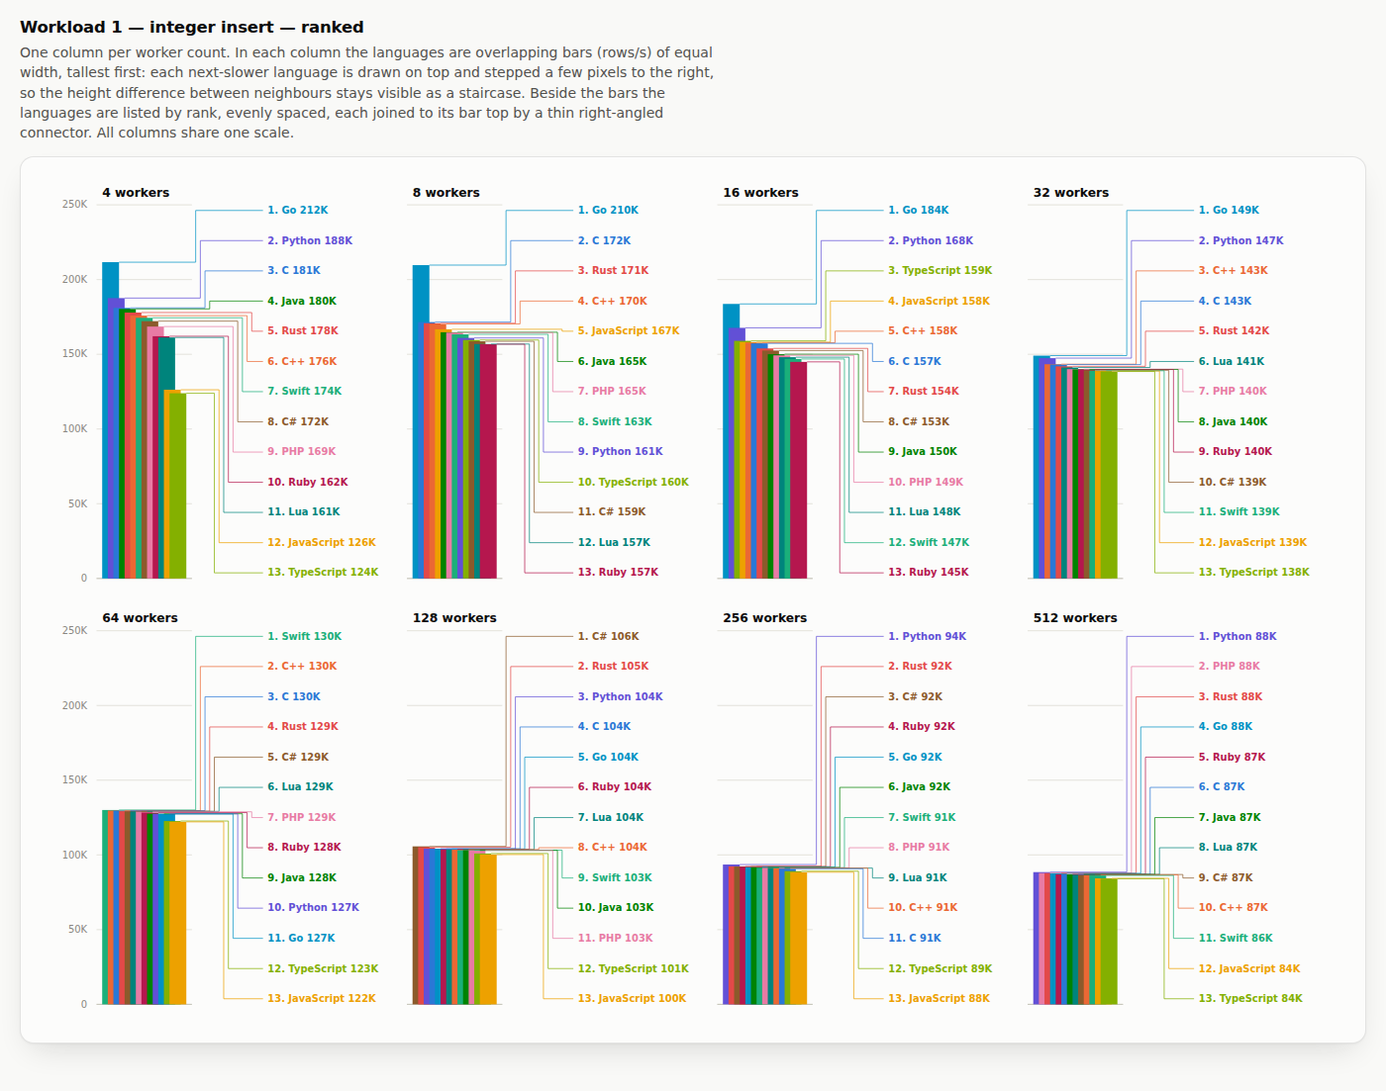
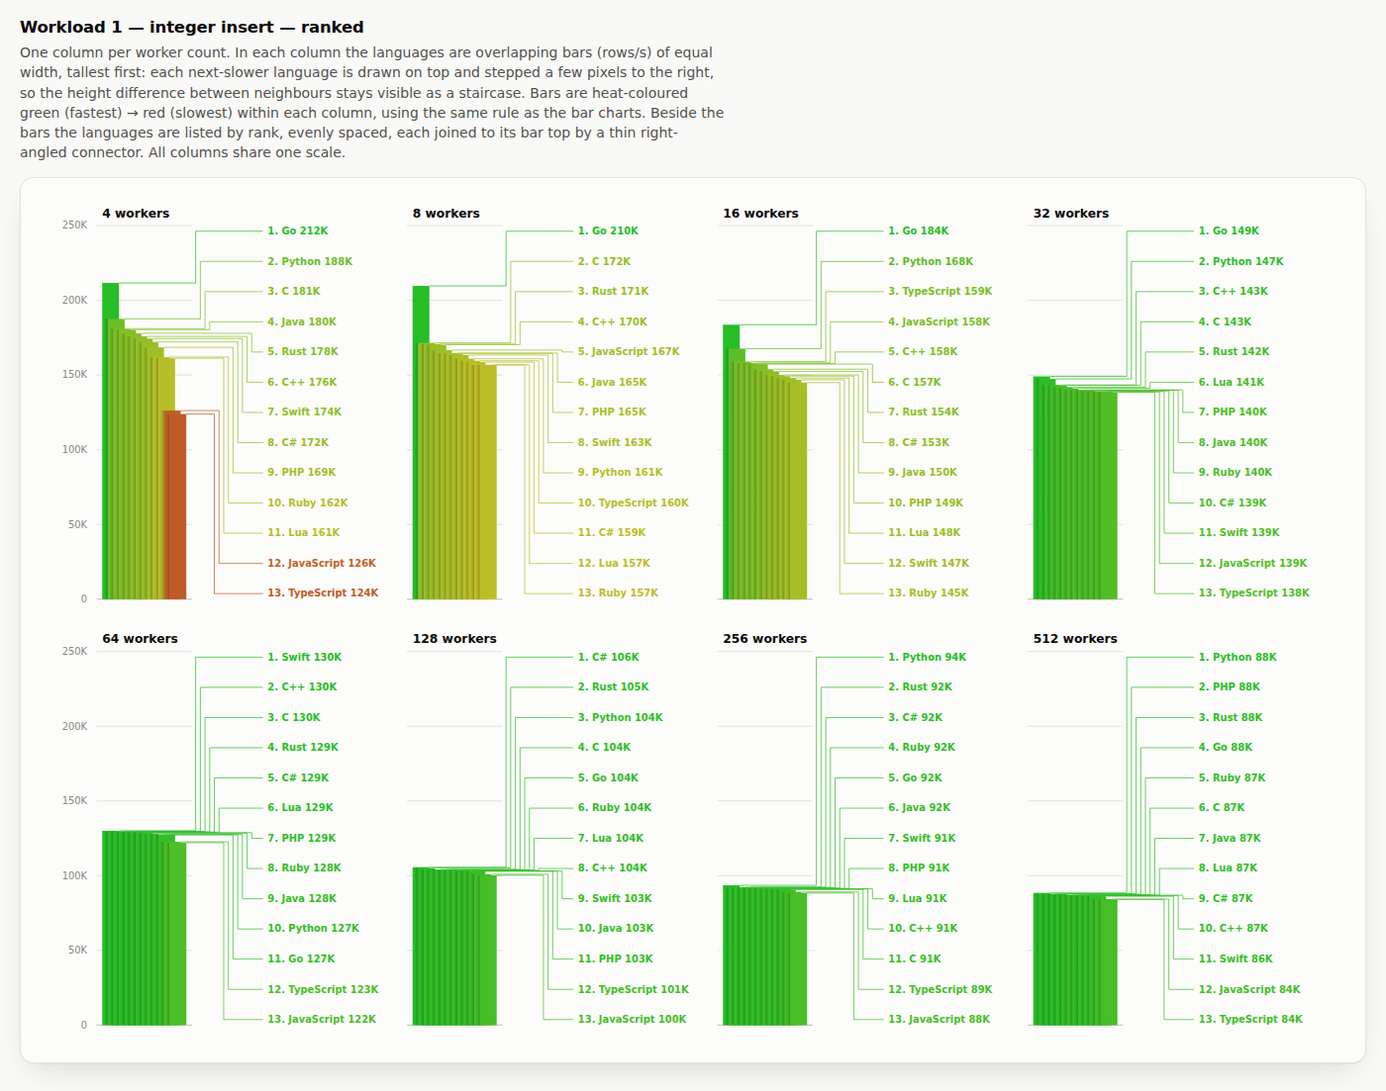
report: heat-map colours and step shadows on the ranked charts
Ranked-chart bars, connectors and labels are now coloured by performance within
each column — green (fastest) to red (slowest), using the same spread rule as
bars.html — instead of per-language colours. Each shorter bar casts a faint
4px gradient shadow leftward onto the taller bar beneath it, so the steps read
with a little depth. Subtitle updated.

diff --git a/report/ranked.html b/report/ranked.html
@@ -114,22 +114,22 @@
 
   <section id="sec-w1-rank">
     <h2>Workload 1 — integer insert — ranked</h2>
-    <p class="sub">One column per worker count. In each column the languages are overlapping bars (rows/s) of equal width, tallest first: each next-slower language is drawn on top and stepped a few pixels to the right, so the height difference between neighbours stays visible as a staircase. Beside the bars the languages are listed by rank, evenly spaced, each joined to its bar top by a thin right-angled connector. All columns share one scale.</p>
+    <p class="sub">One column per worker count. In each column the languages are overlapping bars (rows/s) of equal width, tallest first: each next-slower language is drawn on top and stepped a few pixels to the right, so the height difference between neighbours stays visible as a staircase. Bars are heat-coloured green&nbsp;(fastest)&nbsp;&rarr;&nbsp;red&nbsp;(slowest) within each column, using the same rule as the bar charts. Beside the bars the languages are listed by rank, evenly spaced, each joined to its bar top by a thin right-angled connector. All columns share one scale.</p>
     <div class="bigchart" id="chart-w1-rank"></div>
   </section>
   <section id="sec-w2-rank">
     <h2>Workload 2 — integer fetch + sum — ranked</h2>
-    <p class="sub">One column per worker count. In each column the languages are overlapping bars (rows/s) of equal width, tallest first: each next-slower language is drawn on top and stepped a few pixels to the right, so the height difference between neighbours stays visible as a staircase. Beside the bars the languages are listed by rank, evenly spaced, each joined to its bar top by a thin right-angled connector. All columns share one scale.</p>
+    <p class="sub">One column per worker count. In each column the languages are overlapping bars (rows/s) of equal width, tallest first: each next-slower language is drawn on top and stepped a few pixels to the right, so the height difference between neighbours stays visible as a staircase. Bars are heat-coloured green&nbsp;(fastest)&nbsp;&rarr;&nbsp;red&nbsp;(slowest) within each column, using the same rule as the bar charts. Beside the bars the languages are listed by rank, evenly spaced, each joined to its bar top by a thin right-angled connector. All columns share one scale.</p>
     <div class="bigchart" id="chart-w2-rank"></div>
   </section>
   <section id="sec-w3-rank">
     <h2>Workload 3 — blob insert + MD5 — ranked</h2>
-    <p class="sub">One column per worker count. In each column the languages are overlapping bars (blobs/s) of equal width, tallest first: each next-slower language is drawn on top and stepped a few pixels to the right, so the height difference between neighbours stays visible as a staircase. Beside the bars the languages are listed by rank, evenly spaced, each joined to its bar top by a thin right-angled connector. All columns share one scale.</p>
+    <p class="sub">One column per worker count. In each column the languages are overlapping bars (blobs/s) of equal width, tallest first: each next-slower language is drawn on top and stepped a few pixels to the right, so the height difference between neighbours stays visible as a staircase. Bars are heat-coloured green&nbsp;(fastest)&nbsp;&rarr;&nbsp;red&nbsp;(slowest) within each column, using the same rule as the bar charts. Beside the bars the languages are listed by rank, evenly spaced, each joined to its bar top by a thin right-angled connector. All columns share one scale.</p>
     <div class="bigchart" id="chart-w3-rank"></div>
   </section>
   <section id="sec-w4-rank">
     <h2>Workload 4 — blob read + MD5 — ranked</h2>
-    <p class="sub">One column per worker count. In each column the languages are overlapping bars (blobs/s) of equal width, tallest first: each next-slower language is drawn on top and stepped a few pixels to the right, so the height difference between neighbours stays visible as a staircase. Beside the bars the languages are listed by rank, evenly spaced, each joined to its bar top by a thin right-angled connector. All columns share one scale.</p>
+    <p class="sub">One column per worker count. In each column the languages are overlapping bars (blobs/s) of equal width, tallest first: each next-slower language is drawn on top and stepped a few pixels to the right, so the height difference between neighbours stays visible as a staircase. Bars are heat-coloured green&nbsp;(fastest)&nbsp;&rarr;&nbsp;red&nbsp;(slowest) within each column, using the same rule as the bar charts. Beside the bars the languages are listed by rank, evenly spaced, each joined to its bar top by a thin right-angled connector. All columns share one scale.</p>
     <div class="bigchart" id="chart-w4-rank"></div>
   </section>
   <footer>
@@ -426,6 +426,25 @@ const PAGE_BARS = false;
     const BH = TOP + ROWS * RH;
     const OFF = 6, BARW = 3 * OFF, CHW = 5;   // bar width = 3x the step; each shorter bar shifted right by OFF
     const svg = el("svg", { viewBox: `0 0 ${BW} ${BH}`, role: "img", "aria-label": cfg.ariaLabel });
+    // Soft shadow a shorter bar casts leftward onto the taller bar beneath it.
+    const shId = `rk-sh-${cfg.hostId}`;
+    { const defs = el("defs", {});
+      const g = el("linearGradient", { id: shId, x1: "0", y1: "0", x2: "1", y2: "0" });
+      const s0 = el("stop", { offset: "0", "stop-color": "#000", "stop-opacity": "0" });
+      const s1 = el("stop", { offset: "1", "stop-color": "#000", "stop-opacity": "0.22" });
+      g.append(s0, s1); defs.appendChild(g); svg.appendChild(defs); }
+    // Heat-map colour by performance within the column (same rule as bars.html):
+    // wide spread (>50%) -> green..red by rank; tight group -> hue shifts only by
+    // each bar's shortfall from the column's best (red at a 50% deficit).
+    const heat = (vals) => {
+      const n = vals.length, best = vals[0], worst = vals[n - 1];
+      const byRank = best > 0 && (best - worst) / best > 0.5;
+      return vals.map((v, j) => {
+        const hue = byRank ? 120 * (1 - (n > 1 ? j / (n - 1) : 0))
+                           : 120 * (1 - Math.min(best > 0 ? (best - v) / best : 0, 0.5) / 0.5);
+        return `hsl(${hue.toFixed(1)}, 66%, 45%)`;
+      });
+    };
     const step = cfg.yMax / 5;
     T.forEach((t, ti) => {
       const c = ti % COLS, r = Math.floor(ti / COLS);
@@ -445,11 +464,16 @@ const PAGE_BARS = false;
       svg.appendChild(el("line", { x1: bx0 - 6, x2: bx0 + GW + 6, y1: pb, y2: pb, stroke: "var(--baseline)", "stroke-width": 1 }));
       // Flat equal-width bars, tallest first; each shorter one drawn on top,
       // shifted OFF px right, so the height differences read as a staircase.
+      const cols = heat(ranked.map(e => e.v));
+      ranked.forEach((e, j) => { e.col = cols[j]; });
       const tops = [];
       ranked.forEach((e, j) => {
         const yt = Y(e.v), h = Math.max(1, pb - yt);
         const w = BARW, bx = bx0 + j * OFF;
-        const bar = el("rect", { x: bx, y: yt, width: w, height: h, fill: e.it.st.color });
+        if (j > 0) {   // shadow onto the taller bar to the left, along this bar's height
+          svg.appendChild(el("rect", { x: bx - 4, y: yt, width: 4, height: h, fill: `url(#${shId})` }));
+        }
+        const bar = el("rect", { x: bx, y: yt, width: w, height: h, fill: e.col });
         bar.style.cursor = "crosshair";
         bar.addEventListener("pointerenter", ev => showBar(ev, t, e.it, e.v, cfg.unit));
         bar.addEventListener("pointermove", moveTip);
@@ -469,9 +493,9 @@ const PAGE_BARS = false;
         const tp = tops[j], cxn = chanX[j], y2 = ly(j);
         const p = el("path", { d: `M ${tp.x.toFixed(1)} ${tp.y.toFixed(1)} H ${cxn.toFixed(1)} V ${y2.toFixed(1)} H ${(labelX - 5).toFixed(1)}`,
                                 fill: "none", "stroke-width": 0.9, "stroke-linejoin": "miter", "stroke-opacity": "0.85" });
-        p.style.stroke = e.it.st.color; svg.appendChild(p);
+        p.style.stroke = e.col; svg.appendChild(p);
         const lab = el("text", { x: labelX, y: y2 + 3.5, class: "ranklab" });
-        lab.style.fill = e.it.st.color; lab.textContent = `${j + 1}. ${e.it.name}  ${fmt(e.v)}`; svg.appendChild(lab);
+        lab.style.fill = e.col; lab.textContent = `${j + 1}. ${e.it.name}  ${fmt(e.v)}`; svg.appendChild(lab);
       });
     });
     const host = document.getElementById(cfg.hostId); if (host) host.appendChild(svg);

diff --git a/report/annotated.html b/report/annotated.html
@@ -430,6 +430,25 @@ const PAGE_BARS = false;
     const BH = TOP + ROWS * RH;
     const OFF = 6, BARW = 3 * OFF, CHW = 5;   // bar width = 3x the step; each shorter bar shifted right by OFF
     const svg = el("svg", { viewBox: `0 0 ${BW} ${BH}`, role: "img", "aria-label": cfg.ariaLabel });
+    // Soft shadow a shorter bar casts leftward onto the taller bar beneath it.
+    const shId = `rk-sh-${cfg.hostId}`;
+    { const defs = el("defs", {});
+      const g = el("linearGradient", { id: shId, x1: "0", y1: "0", x2: "1", y2: "0" });
+      const s0 = el("stop", { offset: "0", "stop-color": "#000", "stop-opacity": "0" });
+      const s1 = el("stop", { offset: "1", "stop-color": "#000", "stop-opacity": "0.22" });
+      g.append(s0, s1); defs.appendChild(g); svg.appendChild(defs); }
+    // Heat-map colour by performance within the column (same rule as bars.html):
+    // wide spread (>50%) -> green..red by rank; tight group -> hue shifts only by
+    // each bar's shortfall from the column's best (red at a 50% deficit).
+    const heat = (vals) => {
+      const n = vals.length, best = vals[0], worst = vals[n - 1];
+      const byRank = best > 0 && (best - worst) / best > 0.5;
+      return vals.map((v, j) => {
+        const hue = byRank ? 120 * (1 - (n > 1 ? j / (n - 1) : 0))
+                           : 120 * (1 - Math.min(best > 0 ? (best - v) / best : 0, 0.5) / 0.5);
+        return `hsl(${hue.toFixed(1)}, 66%, 45%)`;
+      });
+    };
     const step = cfg.yMax / 5;
     T.forEach((t, ti) => {
       const c = ti % COLS, r = Math.floor(ti / COLS);
@@ -449,11 +468,16 @@ const PAGE_BARS = false;
       svg.appendChild(el("line", { x1: bx0 - 6, x2: bx0 + GW + 6, y1: pb, y2: pb, stroke: "var(--baseline)", "stroke-width": 1 }));
       // Flat equal-width bars, tallest first; each shorter one drawn on top,
       // shifted OFF px right, so the height differences read as a staircase.
+      const cols = heat(ranked.map(e => e.v));
+      ranked.forEach((e, j) => { e.col = cols[j]; });
       const tops = [];
       ranked.forEach((e, j) => {
         const yt = Y(e.v), h = Math.max(1, pb - yt);
         const w = BARW, bx = bx0 + j * OFF;
-        const bar = el("rect", { x: bx, y: yt, width: w, height: h, fill: e.it.st.color });
+        if (j > 0) {   // shadow onto the taller bar to the left, along this bar's height
+          svg.appendChild(el("rect", { x: bx - 4, y: yt, width: 4, height: h, fill: `url(#${shId})` }));
+        }
+        const bar = el("rect", { x: bx, y: yt, width: w, height: h, fill: e.col });
         bar.style.cursor = "crosshair";
         bar.addEventListener("pointerenter", ev => showBar(ev, t, e.it, e.v, cfg.unit));
         bar.addEventListener("pointermove", moveTip);
@@ -473,9 +497,9 @@ const PAGE_BARS = false;
         const tp = tops[j], cxn = chanX[j], y2 = ly(j);
         const p = el("path", { d: `M ${tp.x.toFixed(1)} ${tp.y.toFixed(1)} H ${cxn.toFixed(1)} V ${y2.toFixed(1)} H ${(labelX - 5).toFixed(1)}`,
                                 fill: "none", "stroke-width": 0.9, "stroke-linejoin": "miter", "stroke-opacity": "0.85" });
-        p.style.stroke = e.it.st.color; svg.appendChild(p);
+        p.style.stroke = e.col; svg.appendChild(p);
         const lab = el("text", { x: labelX, y: y2 + 3.5, class: "ranklab" });
-        lab.style.fill = e.it.st.color; lab.textContent = `${j + 1}. ${e.it.name}  ${fmt(e.v)}`; svg.appendChild(lab);
+        lab.style.fill = e.col; lab.textContent = `${j + 1}. ${e.it.name}  ${fmt(e.v)}`; svg.appendChild(lab);
       });
     });
     const host = document.getElementById(cfg.hostId); if (host) host.appendChild(svg);

diff --git a/report/report.html b/report/report.html
@@ -510,6 +510,25 @@ const PAGE_BARS = false;
     const BH = TOP + ROWS * RH;
     const OFF = 6, BARW = 3 * OFF, CHW = 5;   // bar width = 3x the step; each shorter bar shifted right by OFF
     const svg = el("svg", { viewBox: `0 0 ${BW} ${BH}`, role: "img", "aria-label": cfg.ariaLabel });
+    // Soft shadow a shorter bar casts leftward onto the taller bar beneath it.
+    const shId = `rk-sh-${cfg.hostId}`;
+    { const defs = el("defs", {});
+      const g = el("linearGradient", { id: shId, x1: "0", y1: "0", x2: "1", y2: "0" });
+      const s0 = el("stop", { offset: "0", "stop-color": "#000", "stop-opacity": "0" });
+      const s1 = el("stop", { offset: "1", "stop-color": "#000", "stop-opacity": "0.22" });
+      g.append(s0, s1); defs.appendChild(g); svg.appendChild(defs); }
+    // Heat-map colour by performance within the column (same rule as bars.html):
+    // wide spread (>50%) -> green..red by rank; tight group -> hue shifts only by
+    // each bar's shortfall from the column's best (red at a 50% deficit).
+    const heat = (vals) => {
+      const n = vals.length, best = vals[0], worst = vals[n - 1];
+      const byRank = best > 0 && (best - worst) / best > 0.5;
+      return vals.map((v, j) => {
+        const hue = byRank ? 120 * (1 - (n > 1 ? j / (n - 1) : 0))
+                           : 120 * (1 - Math.min(best > 0 ? (best - v) / best : 0, 0.5) / 0.5);
+        return `hsl(${hue.toFixed(1)}, 66%, 45%)`;
+      });
+    };
     const step = cfg.yMax / 5;
     T.forEach((t, ti) => {
       const c = ti % COLS, r = Math.floor(ti / COLS);
@@ -529,11 +548,16 @@ const PAGE_BARS = false;
       svg.appendChild(el("line", { x1: bx0 - 6, x2: bx0 + GW + 6, y1: pb, y2: pb, stroke: "var(--baseline)", "stroke-width": 1 }));
       // Flat equal-width bars, tallest first; each shorter one drawn on top,
       // shifted OFF px right, so the height differences read as a staircase.
+      const cols = heat(ranked.map(e => e.v));
+      ranked.forEach((e, j) => { e.col = cols[j]; });
       const tops = [];
       ranked.forEach((e, j) => {
         const yt = Y(e.v), h = Math.max(1, pb - yt);
         const w = BARW, bx = bx0 + j * OFF;
-        const bar = el("rect", { x: bx, y: yt, width: w, height: h, fill: e.it.st.color });
+        if (j > 0) {   // shadow onto the taller bar to the left, along this bar's height
+          svg.appendChild(el("rect", { x: bx - 4, y: yt, width: 4, height: h, fill: `url(#${shId})` }));
+        }
+        const bar = el("rect", { x: bx, y: yt, width: w, height: h, fill: e.col });
         bar.style.cursor = "crosshair";
         bar.addEventListener("pointerenter", ev => showBar(ev, t, e.it, e.v, cfg.unit));
         bar.addEventListener("pointermove", moveTip);
@@ -553,9 +577,9 @@ const PAGE_BARS = false;
         const tp = tops[j], cxn = chanX[j], y2 = ly(j);
         const p = el("path", { d: `M ${tp.x.toFixed(1)} ${tp.y.toFixed(1)} H ${cxn.toFixed(1)} V ${y2.toFixed(1)} H ${(labelX - 5).toFixed(1)}`,
                                 fill: "none", "stroke-width": 0.9, "stroke-linejoin": "miter", "stroke-opacity": "0.85" });
-        p.style.stroke = e.it.st.color; svg.appendChild(p);
+        p.style.stroke = e.col; svg.appendChild(p);
         const lab = el("text", { x: labelX, y: y2 + 3.5, class: "ranklab" });
-        lab.style.fill = e.it.st.color; lab.textContent = `${j + 1}. ${e.it.name}  ${fmt(e.v)}`; svg.appendChild(lab);
+        lab.style.fill = e.col; lab.textContent = `${j + 1}. ${e.it.name}  ${fmt(e.v)}`; svg.appendChild(lab);
       });
     });
     const host = document.getElementById(cfg.hostId); if (host) host.appendChild(svg);

diff --git a/report/bars.html b/report/bars.html
@@ -430,6 +430,25 @@ const PAGE_BARS = true;
     const BH = TOP + ROWS * RH;
     const OFF = 6, BARW = 3 * OFF, CHW = 5;   // bar width = 3x the step; each shorter bar shifted right by OFF
     const svg = el("svg", { viewBox: `0 0 ${BW} ${BH}`, role: "img", "aria-label": cfg.ariaLabel });
+    // Soft shadow a shorter bar casts leftward onto the taller bar beneath it.
+    const shId = `rk-sh-${cfg.hostId}`;
+    { const defs = el("defs", {});
+      const g = el("linearGradient", { id: shId, x1: "0", y1: "0", x2: "1", y2: "0" });
+      const s0 = el("stop", { offset: "0", "stop-color": "#000", "stop-opacity": "0" });
+      const s1 = el("stop", { offset: "1", "stop-color": "#000", "stop-opacity": "0.22" });
+      g.append(s0, s1); defs.appendChild(g); svg.appendChild(defs); }
+    // Heat-map colour by performance within the column (same rule as bars.html):
+    // wide spread (>50%) -> green..red by rank; tight group -> hue shifts only by
+    // each bar's shortfall from the column's best (red at a 50% deficit).
+    const heat = (vals) => {
+      const n = vals.length, best = vals[0], worst = vals[n - 1];
+      const byRank = best > 0 && (best - worst) / best > 0.5;
+      return vals.map((v, j) => {
+        const hue = byRank ? 120 * (1 - (n > 1 ? j / (n - 1) : 0))
+                           : 120 * (1 - Math.min(best > 0 ? (best - v) / best : 0, 0.5) / 0.5);
+        return `hsl(${hue.toFixed(1)}, 66%, 45%)`;
+      });
+    };
     const step = cfg.yMax / 5;
     T.forEach((t, ti) => {
       const c = ti % COLS, r = Math.floor(ti / COLS);
@@ -449,11 +468,16 @@ const PAGE_BARS = true;
       svg.appendChild(el("line", { x1: bx0 - 6, x2: bx0 + GW + 6, y1: pb, y2: pb, stroke: "var(--baseline)", "stroke-width": 1 }));
       // Flat equal-width bars, tallest first; each shorter one drawn on top,
       // shifted OFF px right, so the height differences read as a staircase.
+      const cols = heat(ranked.map(e => e.v));
+      ranked.forEach((e, j) => { e.col = cols[j]; });
       const tops = [];
       ranked.forEach((e, j) => {
         const yt = Y(e.v), h = Math.max(1, pb - yt);
         const w = BARW, bx = bx0 + j * OFF;
-        const bar = el("rect", { x: bx, y: yt, width: w, height: h, fill: e.it.st.color });
+        if (j > 0) {   // shadow onto the taller bar to the left, along this bar's height
+          svg.appendChild(el("rect", { x: bx - 4, y: yt, width: 4, height: h, fill: `url(#${shId})` }));
+        }
+        const bar = el("rect", { x: bx, y: yt, width: w, height: h, fill: e.col });
         bar.style.cursor = "crosshair";
         bar.addEventListener("pointerenter", ev => showBar(ev, t, e.it, e.v, cfg.unit));
         bar.addEventListener("pointermove", moveTip);
@@ -473,9 +497,9 @@ const PAGE_BARS = true;
         const tp = tops[j], cxn = chanX[j], y2 = ly(j);
         const p = el("path", { d: `M ${tp.x.toFixed(1)} ${tp.y.toFixed(1)} H ${cxn.toFixed(1)} V ${y2.toFixed(1)} H ${(labelX - 5).toFixed(1)}`,
                                 fill: "none", "stroke-width": 0.9, "stroke-linejoin": "miter", "stroke-opacity": "0.85" });
-        p.style.stroke = e.it.st.color; svg.appendChild(p);
+        p.style.stroke = e.col; svg.appendChild(p);
         const lab = el("text", { x: labelX, y: y2 + 3.5, class: "ranklab" });
-        lab.style.fill = e.it.st.color; lab.textContent = `${j + 1}. ${e.it.name}  ${fmt(e.v)}`; svg.appendChild(lab);
+        lab.style.fill = e.col; lab.textContent = `${j + 1}. ${e.it.name}  ${fmt(e.v)}`; svg.appendChild(lab);
       });
     });
     const host = document.getElementById(cfg.hostId); if (host) host.appendChild(svg);

diff --git a/report/generate_html_report.py b/report/generate_html_report.py
@@ -328,7 +328,7 @@ def main():
         rank_sections += f"""
   <section id="sec-{sid}-rank">
     <h2>{m['title']} — ranked</h2>
-    <p class="sub">One column per worker count. In each column the languages are overlapping bars ({m['unit']}) of equal width, tallest first: each next-slower language is drawn on top and stepped a few pixels to the right, so the height difference between neighbours stays visible as a staircase. Beside the bars the languages are listed by rank, evenly spaced, each joined to its bar top by a thin right-angled connector. All columns share one scale.</p>
+    <p class="sub">One column per worker count. In each column the languages are overlapping bars ({m['unit']}) of equal width, tallest first: each next-slower language is drawn on top and stepped a few pixels to the right, so the height difference between neighbours stays visible as a staircase. Bars are heat-coloured green&nbsp;(fastest)&nbsp;&rarr;&nbsp;red&nbsp;(slowest) within each column, using the same rule as the bar charts. Beside the bars the languages are listed by rank, evenly spaced, each joined to its bar top by a thin right-angled connector. All columns share one scale.</p>
     <div class="bigchart" id="chart-{sid}-rank"></div>
   </section>"""
         png_ann.append(f"{sid}-ann")
@@ -879,6 +879,25 @@ const PAGE_BARS = __PAGE_BARS__;
     const BH = TOP + ROWS * RH;
     const OFF = 6, BARW = 3 * OFF, CHW = 5;   // bar width = 3x the step; each shorter bar shifted right by OFF
     const svg = el("svg", { viewBox: `0 0 ${BW} ${BH}`, role: "img", "aria-label": cfg.ariaLabel });
+    // Soft shadow a shorter bar casts leftward onto the taller bar beneath it.
+    const shId = `rk-sh-${cfg.hostId}`;
+    { const defs = el("defs", {});
+      const g = el("linearGradient", { id: shId, x1: "0", y1: "0", x2: "1", y2: "0" });
+      const s0 = el("stop", { offset: "0", "stop-color": "#000", "stop-opacity": "0" });
+      const s1 = el("stop", { offset: "1", "stop-color": "#000", "stop-opacity": "0.22" });
+      g.append(s0, s1); defs.appendChild(g); svg.appendChild(defs); }
+    // Heat-map colour by performance within the column (same rule as bars.html):
+    // wide spread (>50%) -> green..red by rank; tight group -> hue shifts only by
+    // each bar's shortfall from the column's best (red at a 50% deficit).
+    const heat = (vals) => {
+      const n = vals.length, best = vals[0], worst = vals[n - 1];
+      const byRank = best > 0 && (best - worst) / best > 0.5;
+      return vals.map((v, j) => {
+        const hue = byRank ? 120 * (1 - (n > 1 ? j / (n - 1) : 0))
+                           : 120 * (1 - Math.min(best > 0 ? (best - v) / best : 0, 0.5) / 0.5);
+        return `hsl(${hue.toFixed(1)}, 66%, 45%)`;
+      });
+    };
     const step = cfg.yMax / 5;
     T.forEach((t, ti) => {
       const c = ti % COLS, r = Math.floor(ti / COLS);
@@ -898,11 +917,16 @@ const PAGE_BARS = __PAGE_BARS__;
       svg.appendChild(el("line", { x1: bx0 - 6, x2: bx0 + GW + 6, y1: pb, y2: pb, stroke: "var(--baseline)", "stroke-width": 1 }));
       // Flat equal-width bars, tallest first; each shorter one drawn on top,
       // shifted OFF px right, so the height differences read as a staircase.
+      const cols = heat(ranked.map(e => e.v));
+      ranked.forEach((e, j) => { e.col = cols[j]; });
       const tops = [];
       ranked.forEach((e, j) => {
         const yt = Y(e.v), h = Math.max(1, pb - yt);
         const w = BARW, bx = bx0 + j * OFF;
-        const bar = el("rect", { x: bx, y: yt, width: w, height: h, fill: e.it.st.color });
+        if (j > 0) {   // shadow onto the taller bar to the left, along this bar's height
+          svg.appendChild(el("rect", { x: bx - 4, y: yt, width: 4, height: h, fill: `url(#${shId})` }));
+        }
+        const bar = el("rect", { x: bx, y: yt, width: w, height: h, fill: e.col });
         bar.style.cursor = "crosshair";
         bar.addEventListener("pointerenter", ev => showBar(ev, t, e.it, e.v, cfg.unit));
         bar.addEventListener("pointermove", moveTip);
@@ -922,9 +946,9 @@ const PAGE_BARS = __PAGE_BARS__;
         const tp = tops[j], cxn = chanX[j], y2 = ly(j);
         const p = el("path", { d: `M ${tp.x.toFixed(1)} ${tp.y.toFixed(1)} H ${cxn.toFixed(1)} V ${y2.toFixed(1)} H ${(labelX - 5).toFixed(1)}`,
                                 fill: "none", "stroke-width": 0.9, "stroke-linejoin": "miter", "stroke-opacity": "0.85" });
-        p.style.stroke = e.it.st.color; svg.appendChild(p);
+        p.style.stroke = e.col; svg.appendChild(p);
         const lab = el("text", { x: labelX, y: y2 + 3.5, class: "ranklab" });
-        lab.style.fill = e.it.st.color; lab.textContent = `${j + 1}. ${e.it.name}  ${fmt(e.v)}`; svg.appendChild(lab);
+        lab.style.fill = e.col; lab.textContent = `${j + 1}. ${e.it.name}  ${fmt(e.v)}`; svg.appendChild(lab);
       });
     });
     const host = document.getElementById(cfg.hostId); if (host) host.appendChild(svg);
